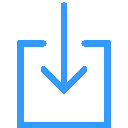
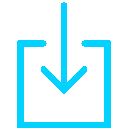
CustomizeFlashKard Edit mode UI & animations complete

Changed region(s): [[0.125, 0.3125, 0.875, 1.0], [0.3125, 0.0, 0.6875, 0.75]]

diff --git a/FlashKards/CustomizeCardController.swift b/FlashKards/CustomizeCardController.swift
@@ -7,6 +7,10 @@
 //
 
 import UIKit
+enum EditMode{
+    case AddTextMode
+    case AddImgMode
+}
 
 class CustomizeCardController: UIViewController, PopupDelegate {
     @IBOutlet weak var confirmBtnsContainerView: UIView!
@@ -31,6 +35,7 @@ class CustomizeCardController: UIViewController, PopupDelegate {
     private var frontShowing = true
     private var isAnimating = false
     private var rectSel: RectSelView!
+    private var editMode: EditMode?
     override func viewDidLoad() {
         super.viewDidLoad()
         // Do any additional setup after loading the view.
@@ -49,11 +54,32 @@ class CustomizeCardController: UIViewController, PopupDelegate {
         // Buttons
         cancelBtn.alpha = 0
         okBtn.hidden = true
-        addImgBtn.addTarget(self, action: "imgIconTapped:", forControlEvents: .TouchUpInside)
-        addTextBtn.addTarget(self, action: "textIconTapped:", forControlEvents: .TouchUpInside)
+        addImgBtn.tag = 0
+        addTextBtn.tag = 1
+        
+        addImgBtn.addTarget(self, action: "buttonTapped:", forControlEvents: .TouchUpInside)
+        addTextBtn.addTarget(self, action: "buttonTapped:", forControlEvents: .TouchUpInside)
+        addImgBtn.addTarget(self, action: "touchDownGlow:", forControlEvents: .TouchDown)
+        addTextBtn.addTarget(self, action: "touchDownGlow:", forControlEvents: .TouchDown)
+        addImgBtn.addTarget(self, action: "removeTouchDownGlow:", forControlEvents: .TouchUpOutside)
+        addTextBtn.addTarget(self, action: "removeTouchDownGlow:", forControlEvents: .TouchUpOutside)
         flipBtn.addTarget(self, action: "flip", forControlEvents: .TouchUpInside)
         deleteBtn.addTarget(self, action: "back:", forControlEvents: .TouchUpInside)
         cancelBtn.addTarget(self, action: "exitEditMode", forControlEvents: .TouchUpInside)
+        
+        // Glow
+        var color = UIColor(red: 2/255, green: 210/255, blue: 255/255, alpha: 1);
+        addImgBtn.layer.shadowColor = color.CGColor;
+        addImgBtn.layer.shadowRadius = 0;
+        addImgBtn.layer.shadowOpacity = 0.9;
+        addImgBtn.layer.shadowOffset = CGSizeZero;
+        addImgBtn.layer.masksToBounds = false;
+        
+        addTextBtn.layer.shadowColor = color.CGColor;
+        addTextBtn.layer.shadowRadius = 0;
+        addTextBtn.layer.shadowOpacity = 0.9;
+        addTextBtn.layer.shadowOffset = CGSizeZero;
+        addTextBtn.layer.masksToBounds = false;
     }
     
     override func didReceiveMemoryWarning() {
@@ -61,8 +87,23 @@ class CustomizeCardController: UIViewController, PopupDelegate {
         // Dispose of any resources that can be recreated.
     }
     
-    func enterEditMode(){
-        self.isInEditMode = true
+    func touchDownGlow(sender: UIButton!){
+        UIView.transitionWithView(sender, duration: 0.15, options: UIViewAnimationOptions.TransitionCrossDissolve, animations: { () -> Void in
+            sender.layer.shadowRadius = 4
+            }) { (complete) -> Void in
+        }
+    }
+    
+    func removeTouchDownGlow(sender: UIButton!){
+        UIView.transitionWithView(sender, duration: 0.15, options: UIViewAnimationOptions.TransitionCrossDissolve, animations: { () -> Void in
+            sender.layer.shadowRadius = 0
+            }) { (complete) -> Void in
+        }
+    }
+    
+    func enterEditMode(mode: EditMode!){
+        isInEditMode = true
+        editMode = mode
         rectSel = RectSelView(frame: CGRect(x: 5, y: 5, width: 100, height: 100))
         rectSel.alpha = 0
         flashcardContainerView.addSubview(rectSel)
@@ -129,15 +170,7 @@ class CustomizeCardController: UIViewController, PopupDelegate {
                 
                 }, completion: nil)
         })
-        UIView.transitionWithView(self.addTextBtn, duration: 0.4, options: UIViewAnimationOptions.TransitionCrossDissolve, animations: { () -> Void in
-            self.addTextBtn.setImage(UIImage(named: "text-white.png"), forState: UIControlState.Normal)
-            }) { (complete) -> Void in
-        }
-        UIView.transitionWithView(self.addImgBtn, duration: 0.4, options: UIViewAnimationOptions.TransitionCrossDissolve, animations: { () -> Void in
-            self.addImgBtn.setImage(UIImage(named: "newImg-white.png"), forState: UIControlState.Normal)
-            }) { (complete) -> Void in
-        }
-        
+        removeActiveGlow()
     }
     
     func flip(){
@@ -170,8 +203,8 @@ class CustomizeCardController: UIViewController, PopupDelegate {
         })
     }
     
+    // Ask user if they really want to quit without saving.
     func back(sender: UIButton) {
-        // Ask user if they really want to quit without saving.
         var backConfirmPopup = Popup(frame: CGRect(x: 35, y: view.frame.height/3, width: view.frame.width - 70, height: view.frame.height/3))
         backConfirmPopup.message = "Are you sure you want to quit without saving?"
         backConfirmPopup.confirmButtonText = "YES"
@@ -206,22 +239,43 @@ class CustomizeCardController: UIViewController, PopupDelegate {
         })
     }
     
-    func textIconTapped(sender: UIButton!){
+    func buttonTapped(sender: UIButton!){
         if !isInEditMode{
-            UIView.transitionWithView(self.addTextBtn, duration: 0.4, options: UIViewAnimationOptions.TransitionCrossDissolve, animations: { () -> Void in
-                self.addTextBtn.setImage(UIImage(named: "text-blue.png"), forState: UIControlState.Normal)
-                }) { (complete) -> Void in
-                    
-            }
-            enterEditMode()
+            sender.layer.shadowRadius = 0;
+            addActiveGlow(sender)
+            let editingMode : EditMode = (sender.tag == 0) ? .AddImgMode : .AddTextMode
+            enterEditMode(editingMode)
         }
     }
     
-    func imgIconTapped(sender: UIButton!){
-        if !isInEditMode{
-            enterEditMode()
+    func addActiveGlow(sender: UIButton!){
+        dispatch_async(dispatch_get_main_queue(), { () -> Void in
+            UIView.transitionWithView(sender, duration: 0.4, options: UIViewAnimationOptions.TransitionCrossDissolve, animations: { () -> Void in
+                let newImgString = (sender.tag == 0) ? "newImg-blue.png" : "text-blue.png"
+                sender.setImage(UIImage(named: newImgString), forState: UIControlState.Normal)
+                var color = UIColor(red: 2/255, green: 210/255, blue: 255/255, alpha: 1);
+                sender.layer.shadowColor = color.CGColor;
+                sender.layer.shadowRadius = 4.0;
+                sender.layer.shadowOpacity = 0.9;
+                sender.layer.shadowOffset = CGSizeZero;
+                sender.layer.masksToBounds = false;
+                }) { (complete) -> Void in
+            }
+        })
+    }
+    
+    func removeActiveGlow(){
+        let newImgString = (editMode == .AddImgMode) ? "newImg-white.png" : "text-white.png"
+        let button = (editMode == .AddImgMode) ? addImgBtn : addTextBtn
+        UIView.transitionWithView(button, duration: 0.4, options: UIViewAnimationOptions.TransitionCrossDissolve, animations: { () -> Void in
+            button.setImage(UIImage(named: newImgString), forState: UIControlState.Normal)
+            button.layer.shadowRadius = 0
+            }) { (complete) -> Void in
+                self.editMode = nil
         }
     }
+    
+    
     /*
     // MARK: - Navigation
     
